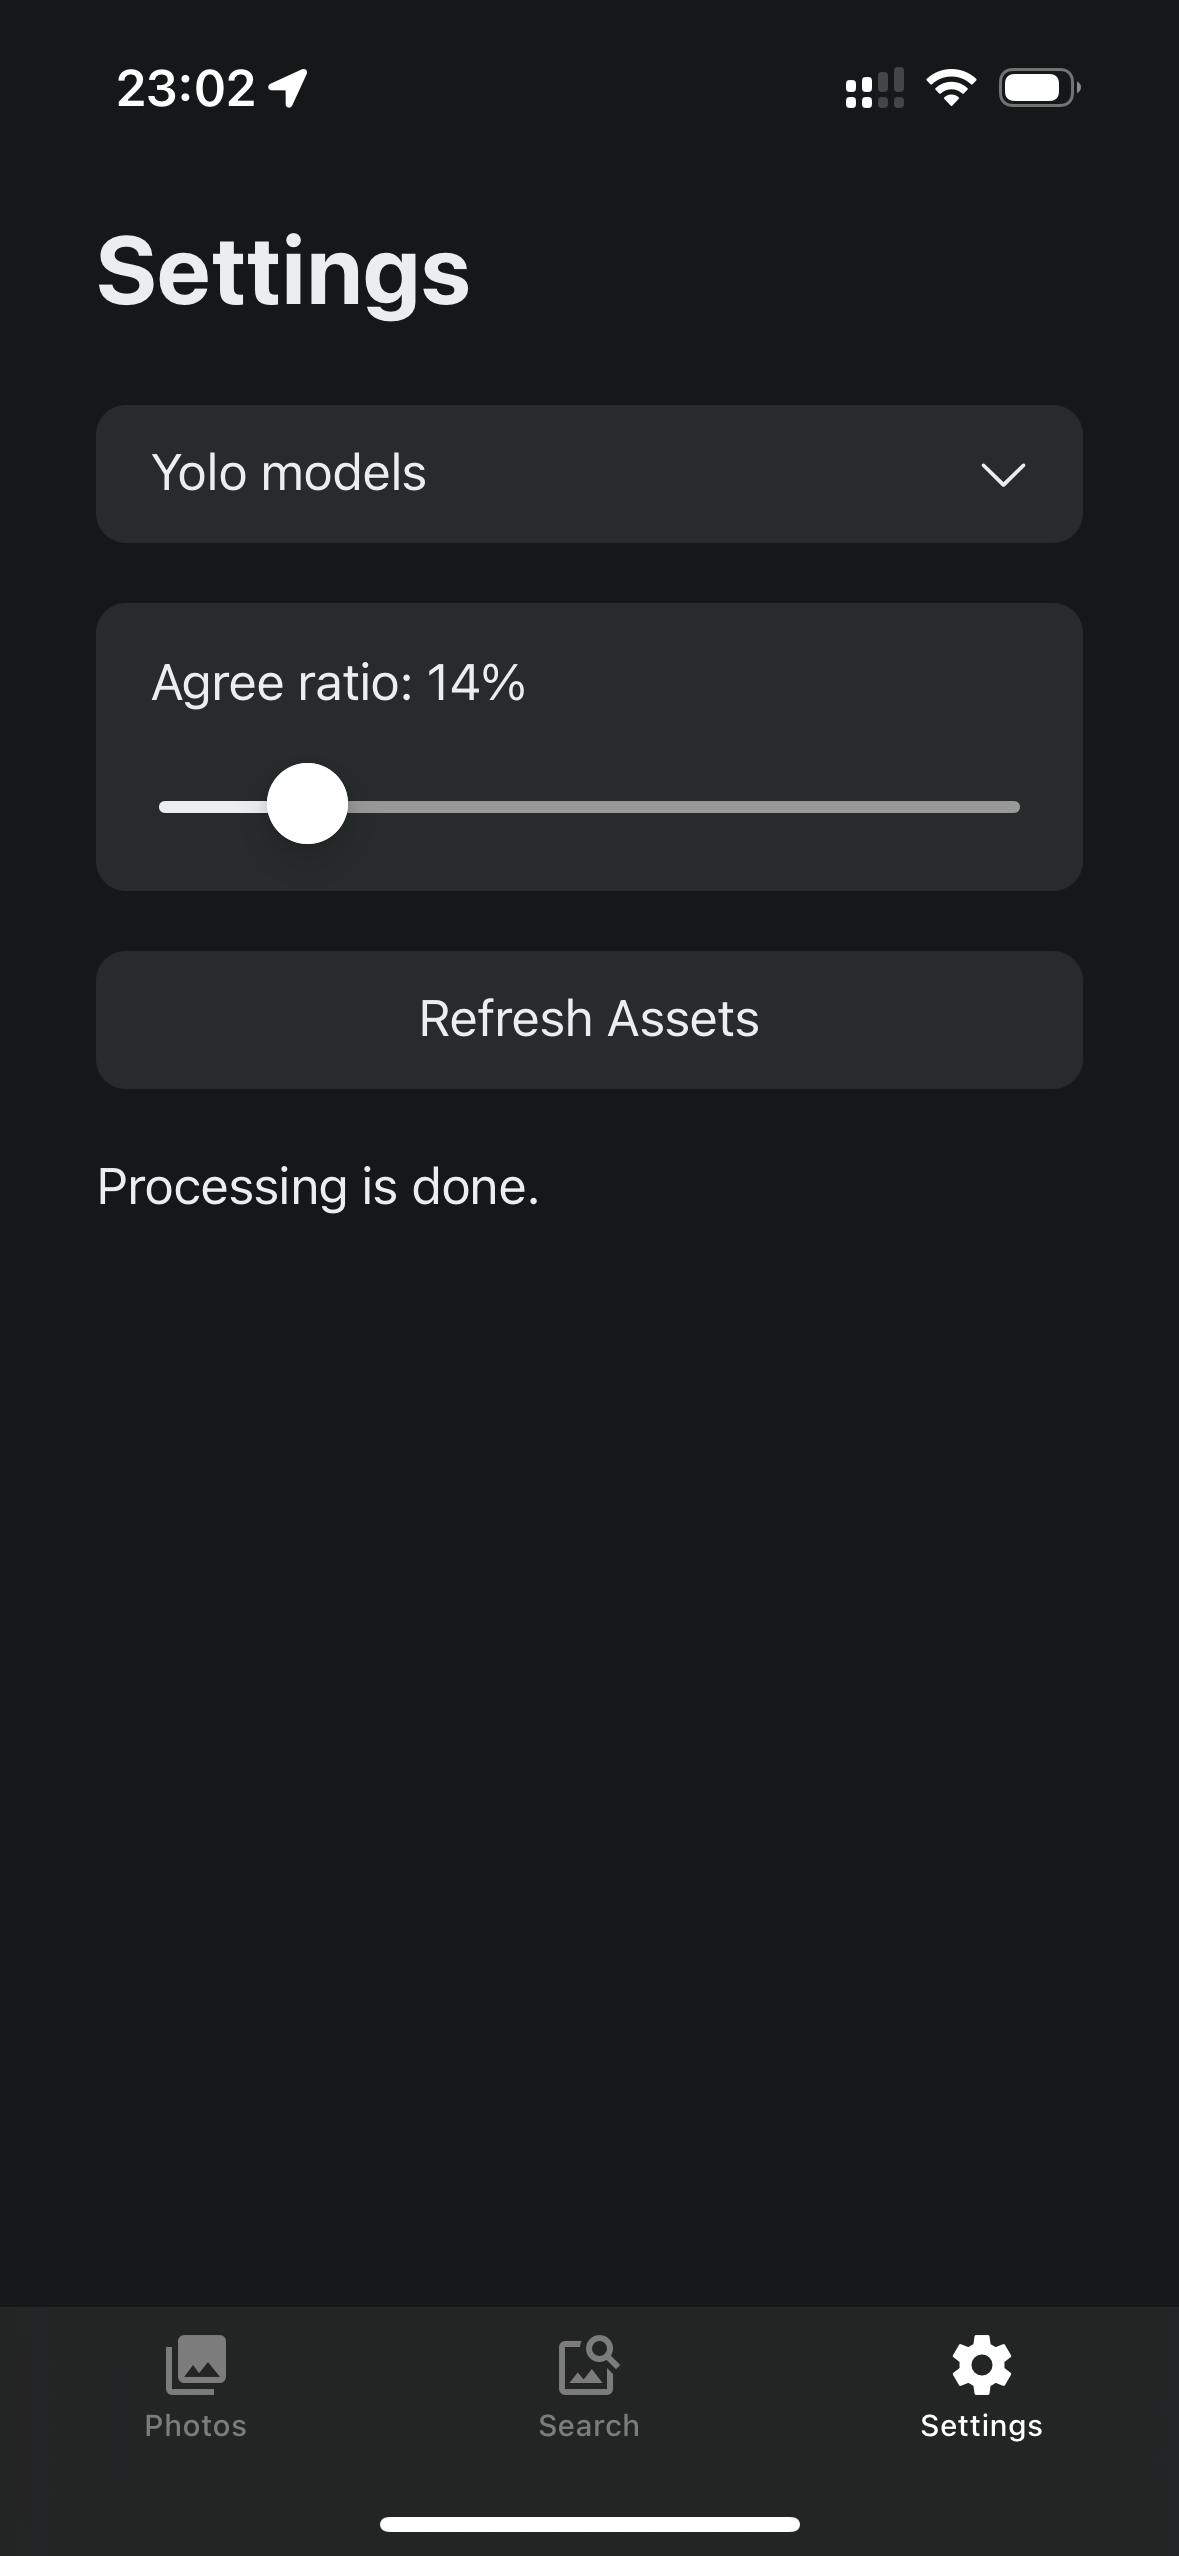
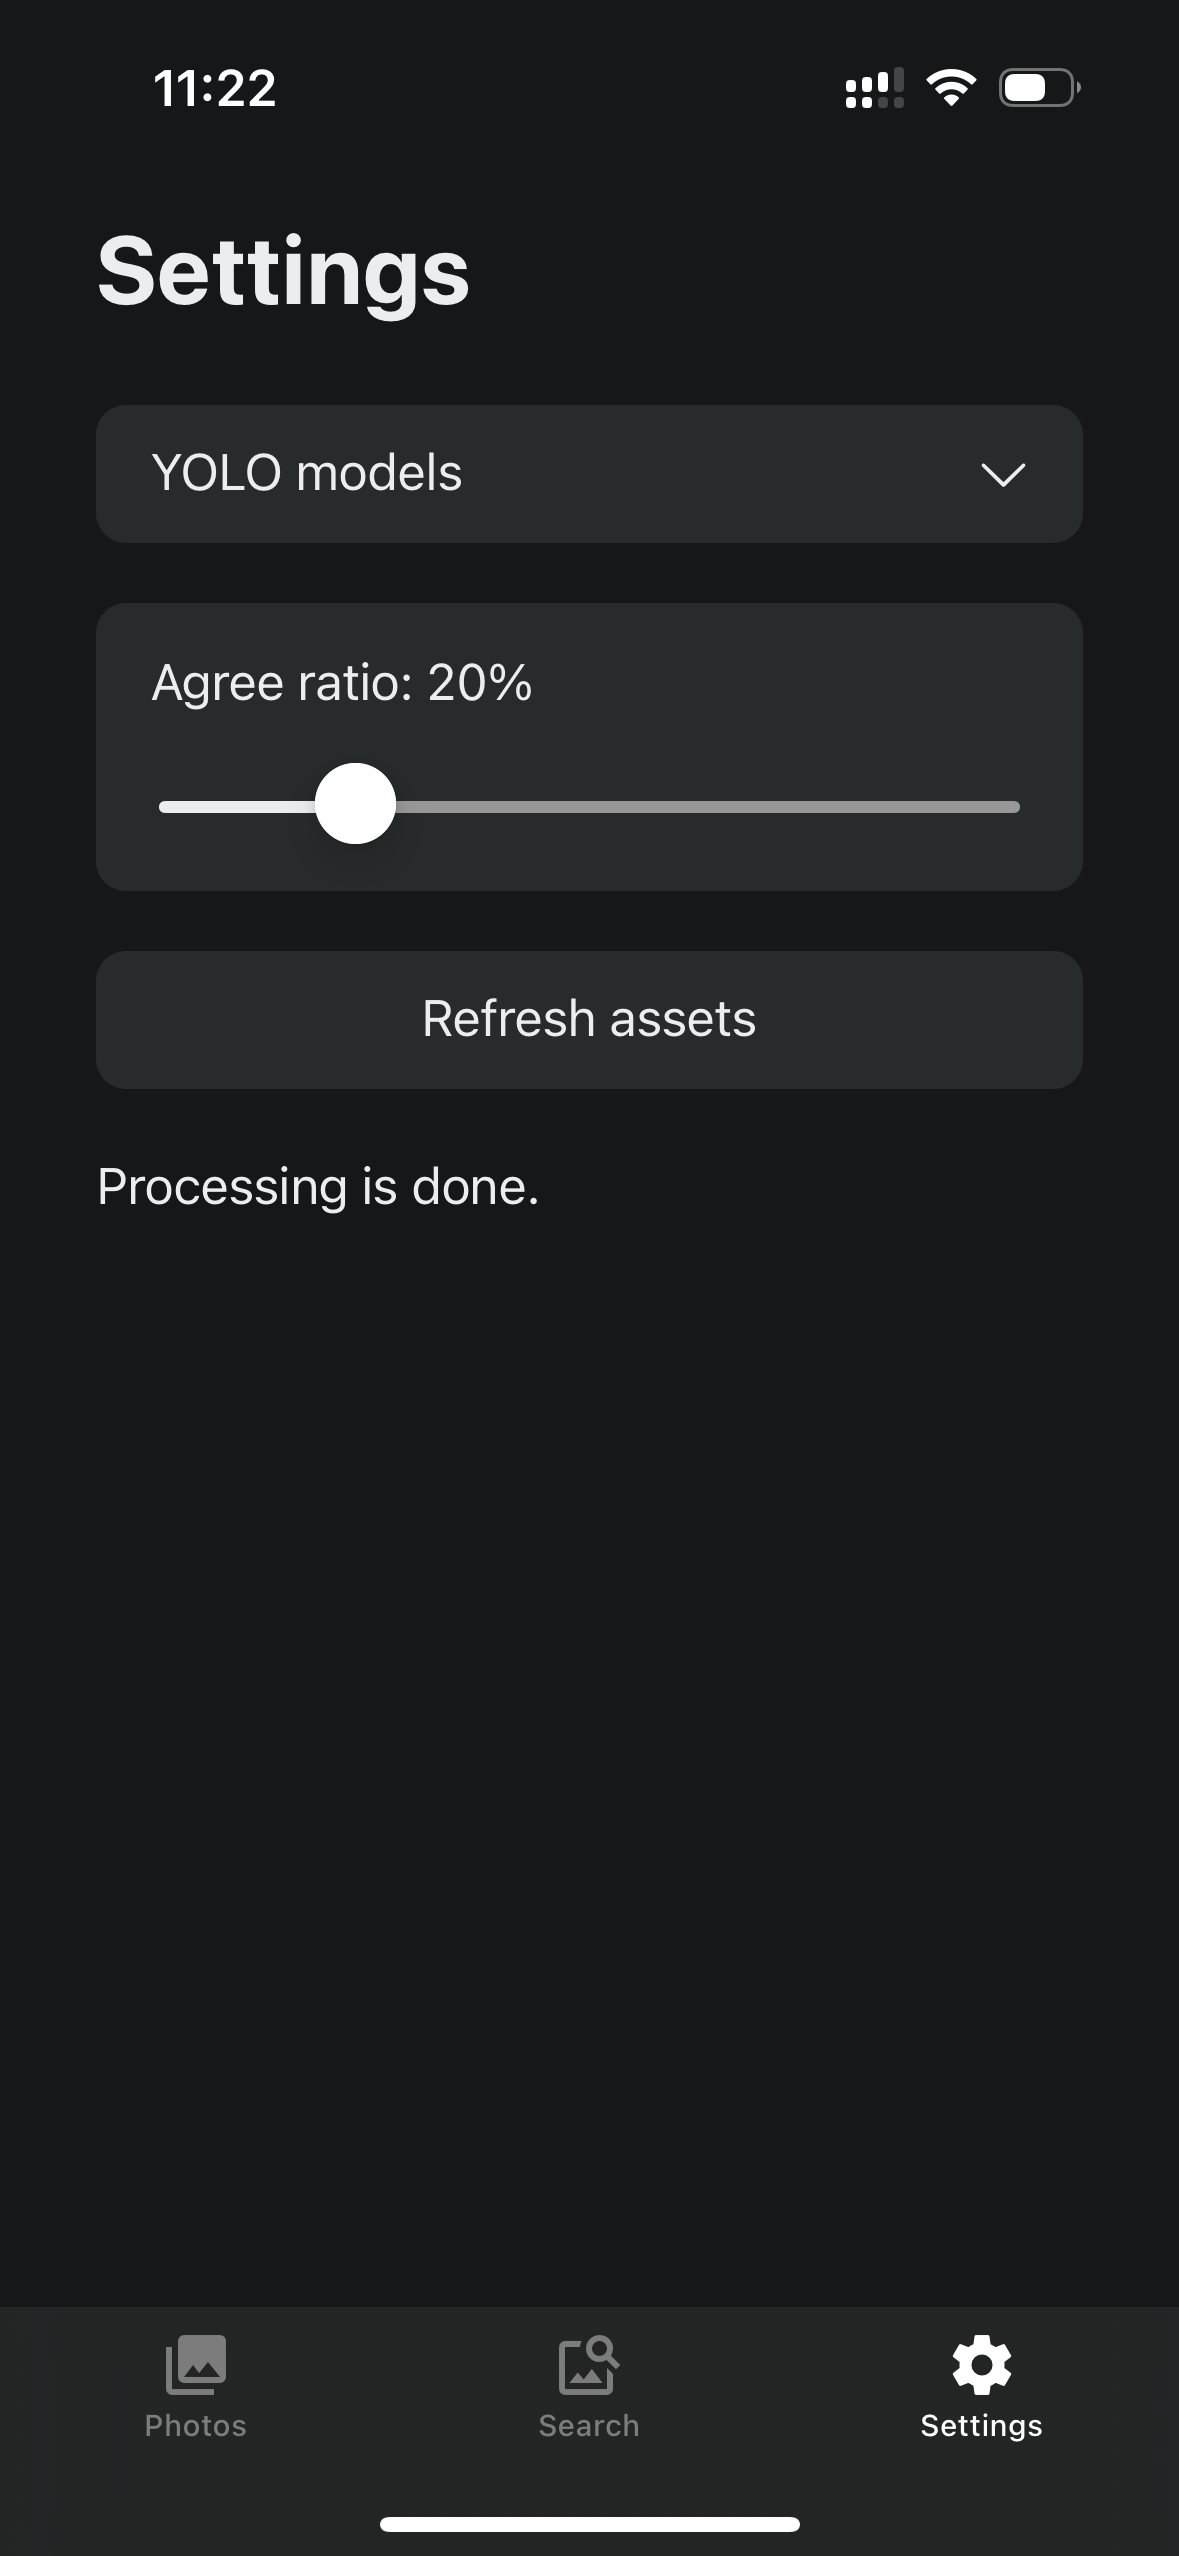
Change letter capitalization in settings

diff --git a/app/(tabs)/settings.tsx b/app/(tabs)/settings.tsx
@@ -46,7 +46,7 @@ export default function SettingsScreen() {
             <ItemsDropdown
                 items={models}
                 setItems={setModels}
-                title={"Yolo models"}
+                title={"YOLO models"}
                 isMultiselect={true}
             />
 
@@ -60,7 +60,7 @@ export default function SettingsScreen() {
 
             <ThemedButton
                 onPress={onRefresh}
-                title="Refresh Assets"
+                title="Refresh assets"
             />
 
             {(processedLength !== length) ?

diff --git a/README.md b/README.md
@@ -58,8 +58,8 @@ Displays the main gallery interface for browsing photos. Allows to zoom the phot
 Enables photo search based on their content.
 
 <div style="display: flex; justify-content: space-around;">
-    <img src="readme/app_search_1.PNG" alt="app_search_1" width="300"/>
-    <img src="readme/app_search_2.PNG" alt="app_search_2" width="300"/>
+    <img src="readme/app_search.PNG" alt="app_search_1" width="300"/>
+    <img src="readme/app_search_light.PNG" alt="app_search_2_light" width="300"/>
 </div>
 
 ### 3. **Settings**
